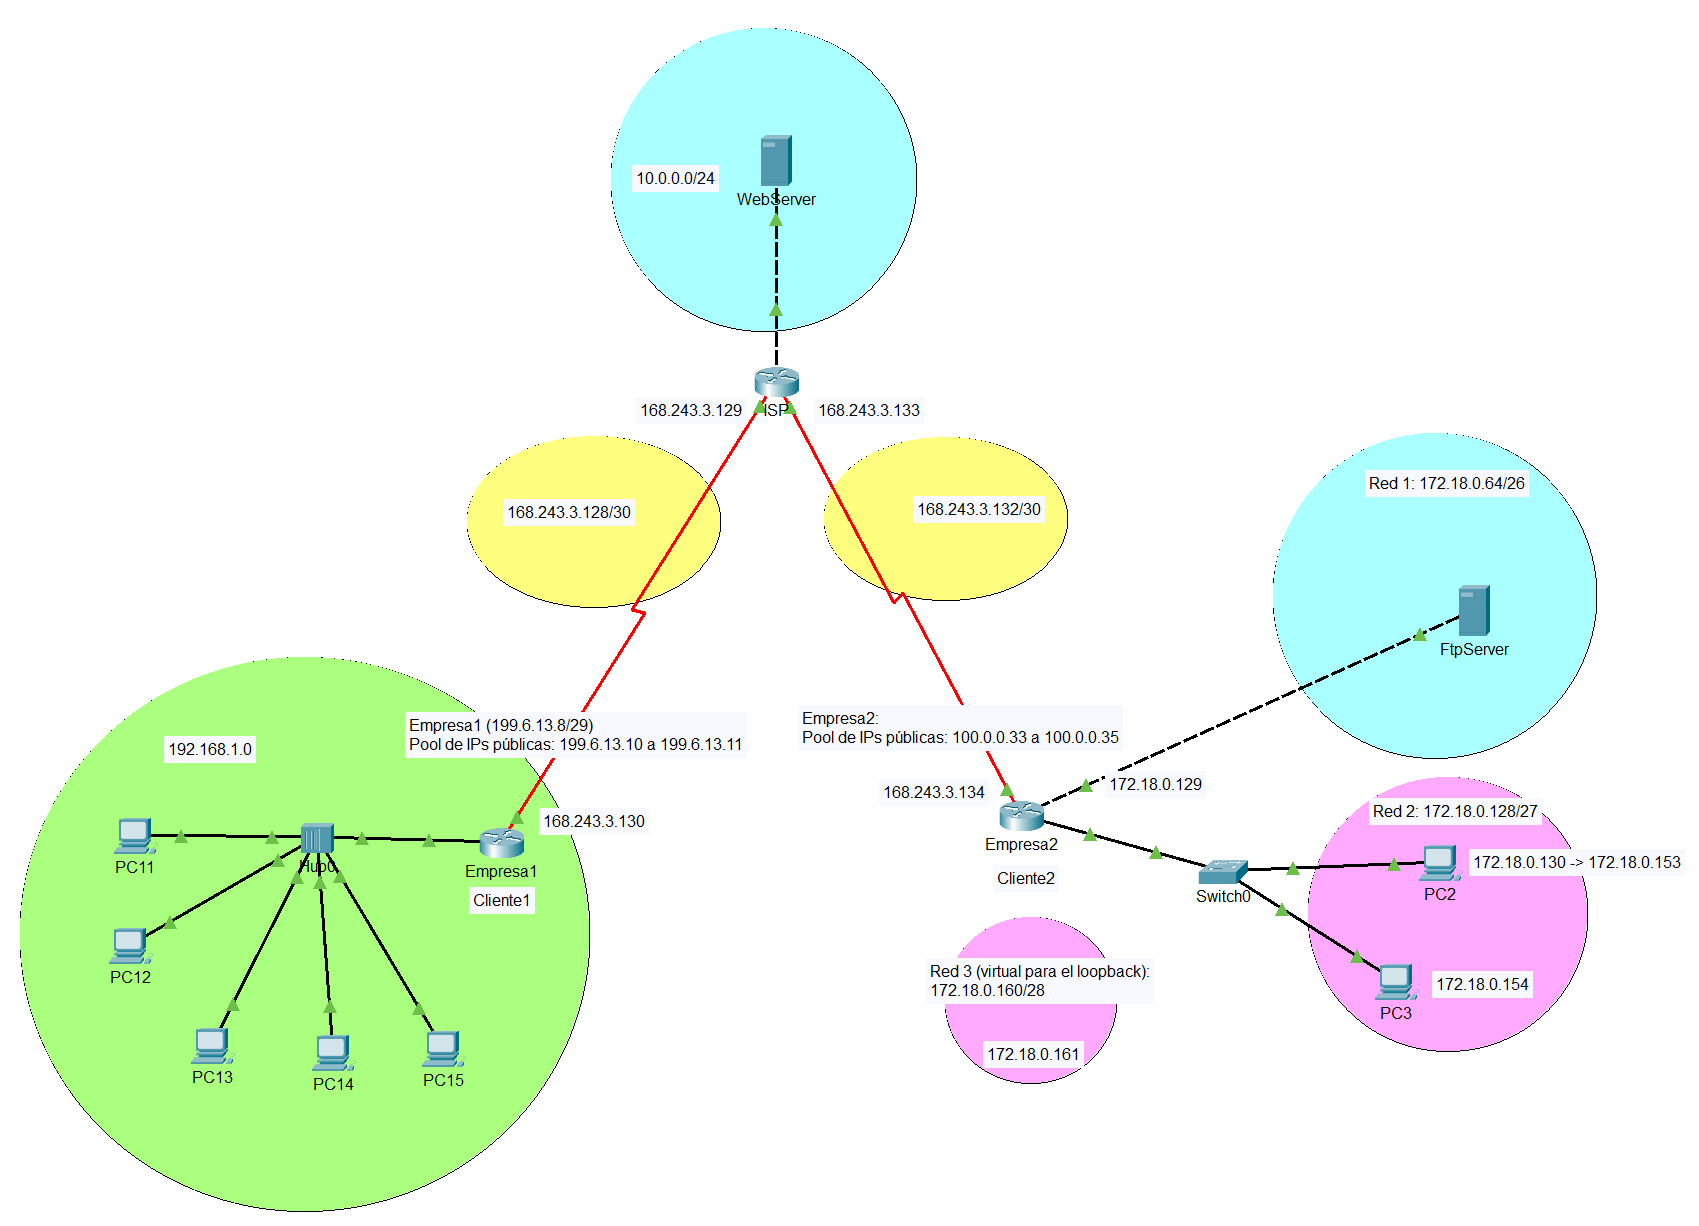
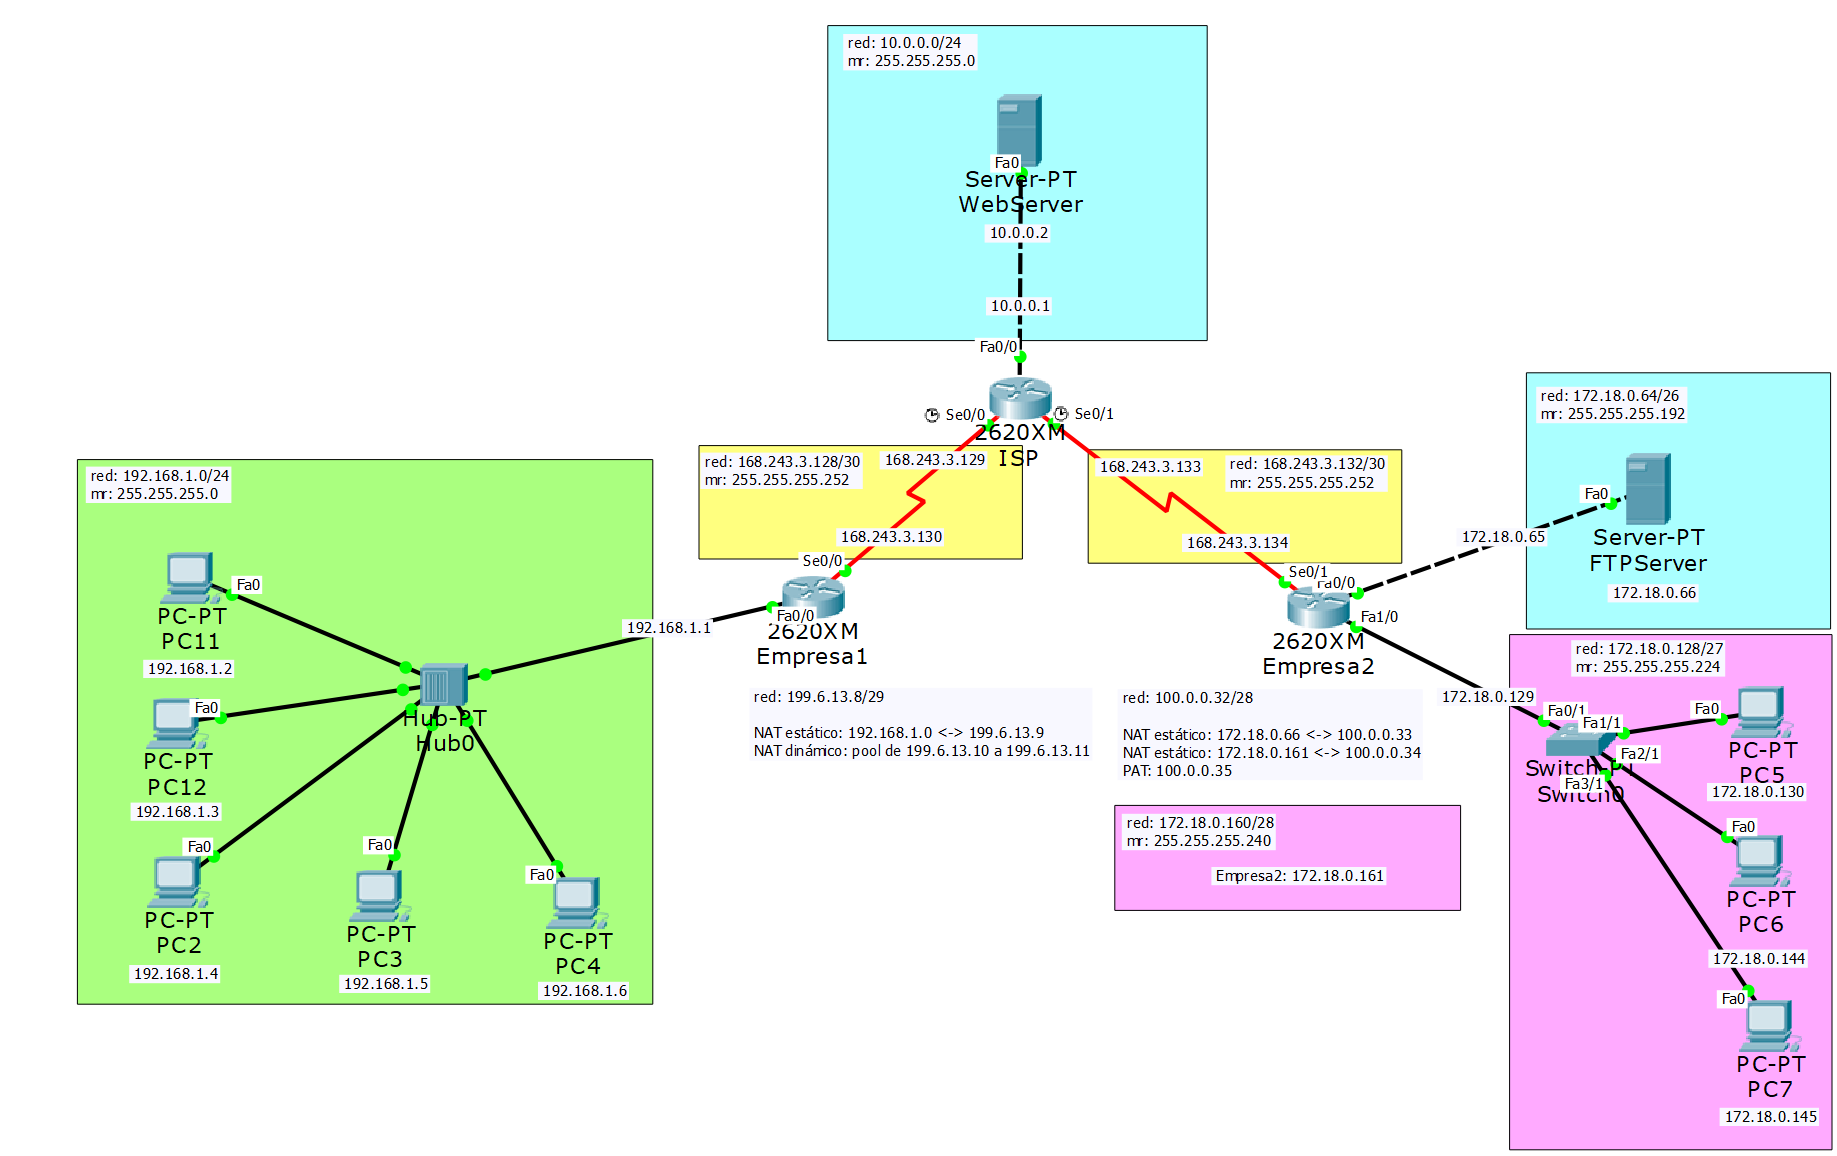
wip

diff --git a/_posts/2022-03-07-tutorial-nat-pat-packet-tracer.md b/_posts/2022-03-07-tutorial-nat-pat-packet-tracer.md
@@ -21,9 +21,6 @@ Implementar ahí la siguiente topología:
 ![img-description](/assets/img/tutorial-nat-pat-packet-tracer/tresRoutersEstáticoDinamicoSobrecargado.png)
 _Topología base_
 
-> En esta configuración ambas interfaces seriales del router ISP usarán cables DCE.
-{:.prompt-tip}
-
 > En esta práctica se usan subredes VLSM explicadas en el artículo [VLSM](/posts/vlsm/). Este tipo de subredes pueden tener máscaras de red diferentes unas de otras.
 {:.prompt-tip}
 
@@ -35,7 +32,7 @@ _Topología base_
 
 Proceda a realizar la configuración de cada router indicada a continuación.
 
-Configuración para Empresa1 :
+Configuración para Empresa1:
 
 ```console
 Router#configure terminal
@@ -110,7 +107,7 @@ Comprobación de direccionamiento IP
 {:.step}
 ### Paso
 
-Realizar las siguientes pruebas con el comando `ping` (usando el Command Prompt del Desktop de cada PC) desde las estaciones de trabajo y el web server. 
+Realizar las siguientes pruebas con el comando `ping` (usando el Command Prompt del Desktop de cada PC) desde las estaciones de trabajo y el web server.
 
 Se anotan a continuación de cada prueba el resultado que debería obtenerse, compárelo con sus propios resultados:
 
@@ -133,7 +130,7 @@ Nuevamente se hace la aclaración. Los fallos al realizar las pruebas `ping` ent
 {:.step}
 ### Paso
 
-Asignación de una red IP pública para realizar el proceso de traducción. Las direcciones de carácter público (globales) para su cliente 1 (Empresa1) que configurara el proveedor en su equipo ISP serán las IP host contenidas en la red: 199.6.13.8/29. 
+Asignación de una red IP pública para realizar el proceso de traducción. Las direcciones de carácter público (globales) para su cliente 1 (Empresa1) que configurara el proveedor en su equipo ISP serán las IP host contenidas en la red: 199.6.13.8/29.
 
 Estas IP globales serán configuradas en los siguientes pasos.
 
@@ -149,7 +146,7 @@ ISP(config)# ip route 199.6.13.8 255.255.255.248 168.243.3.130
 {:.step}
 ### Paso
 
-Configure una ruta estática por defecto en el enrutador Empresa1: 
+Configure una ruta estática por defecto en el enrutador Empresa1:
 
 ```console
 Empresa1(config)#ip route 0.0.0.0 0.0.0.0 serial 0/0
@@ -234,7 +231,7 @@ Pro  Inside global     Inside local       Outside local      Outside global
 ---  199.6.13.9        192.168.1.2        ---                ---
 ```
 
-El comando `clear ip nat translation *` elimina el contenido actual de la tabla de traducción NAT. Al ejecutar el comando `show` de la última línea podrá verificar que la traducción anterior aun existe, porque esta traducción ha sido definida de manera estática. 
+El comando `clear ip nat translation *` elimina el contenido actual de la tabla de traducción NAT. Al ejecutar el comando `show` de la última línea podrá verificar que la traducción anterior aun existe, porque esta traducción ha sido definida de manera estática.
 
 {:.step}
 ### Paso
@@ -383,7 +380,7 @@ Empresa2(config-if)#exit
 Empresa2(config)#interface Lo 3
 Empresa2(config-if)#ip nat inside
 Empresa2(config-if)#exit
-Empresa2(config)#inter serial 0/1
+Empresa2(config)#interface serial 0/1
 Empresa2(config-if)#ip nat outside
 Empresa2(config-if)#do write
 Empresa2(config-if)#exit
@@ -396,6 +393,10 @@ Observe como la Lo 3 se convierte en una interface de entrada de NAT.
 
 Configure una ruta por defecto en Empresa2, que utilice la interface de salida Serial 0/1 con la que se conecta al ISP. Es decir, debes configurar la tabla de enrutamiento del enrutador Empresa2 como ya se hizo con el enrutador de Empresa1.
 
+```console
+Empresa2(config)#ip route 0.0.0.0 0.0.0.0 serial 0/1
+```
+
 {:.step}
 ### Paso
 
@@ -403,10 +404,9 @@ En ISP, configure la manera de cómo este dispositivo deberá alcanzar la red pr
 
 ```console
 ISP(config)#ip route 100.0.0.32 255.255.255.252 168.243.3.134
-ISP(config)#ip route 100.0.0.35 255.255.255.255 168.243.3.134
 ```
 
-La dirección IP 100.0.0.35 pertenece a la red 100.0.0.32/30 pero se trata de un mensaje broadcast por lo que el enrutador no lo propagaría. Debido a esto, es necesaria la segunda línea. De todos modos, no estoy 100% seguro de esto.
+El rango de direcciones 100.0.0.32/30 (máscara de 255.255.255.252) abarca desde la dirección IP 100.0.0.32 a la dirección 100.0.0.35. Esta es una manera de indicar rangos de direcciones IP
 
 {:.step}
 ### Paso
@@ -418,14 +418,14 @@ De igual forma, desde host PC11, ejecute el comando `ping` dirigido a la ip púb
 {:.step}
 ### Paso
 
-Hasta este momento, ya solo queda disponible una ip publica (100.0.0.35) adquirida al proveedor ISP, y con ella debe darse acceso a Internet a solamente a la mitad superior de las direcciones IP de la Red2 (172.18.0.128/27). 
+Hasta este momento, ya solo queda disponible una ip publica (100.0.0.35) adquirida al proveedor ISP, y con ella debe darse acceso a Internet a solamente a la mitad superior de las direcciones IP de la Red2 (172.18.0.128/27).
 
 Este rango de ip que tendrán Internet incluye desde la ip 172.18.0.144 hasta la 172.18.0.158. Veamos cómo es posible solventar este problema usando PAT.
 
 {:.step}
 ### Paso
 
-Ejecute la siguiente configuración de PAT (NAT Overloaded) en Empresa2. Analice los comentarios previos en cada bloque. 
+Ejecute la siguiente configuración de PAT (NAT Overloaded) en Empresa2. Analice los comentarios previos en cada bloque.
 
 Configura una pila, formada por una "única dirección" 100.0.0.35 como inicio y final del rango de ip publicas aun disponibles para NAT.
 
@@ -433,13 +433,25 @@ Configura una pila, formada por una "única dirección" 100.0.0.35 como inicio y
 Empresa2(config)#ip nat pool cliente2 100.0.0.35 100.0.0.35 netmask 255.255.255.240
 ```
 
-Crea la ACL 2 para determinar las redes que tendrán acceso al proceso NAT y alcanzar así Internet.
-En este caso, solo se aceptarán IPs de la mitad superior del rango de IPs de la Red 2.
+Crea la ACL 2 para determinar las redes que tendrán acceso al proceso NAT y alcanzar así Internet. En este caso, solo se aceptarán IPs de la mitad superior del rango de IPs de la Red 2.
 
 ```console
 Empresa2(config)#access-list 2 permit 172.18.0.144 0.0.0.15
 Empresa2(config)#access-list 2 deny any
 ```
+
+<details class="card mb-2">
+  <summary class="card-header question">¿Cómo se entiende esto?
+</summary>
+  <div class="card-body" markdown="1">
+
+La máscara inversa de 255.255.255.240 (/28) es 0.0.0.15. Te recuerdo que estábamos usando la subred 172.18.0.128/27 (255.255.255.224).
+
+Por asi decirlo, estamos "creando" dos subredes sobre la subred original y diciéndole al router que la segunda subred (subred 172.18.0.144/28) la permita y el resto (subred 172.18.0.128/28) no.
+
+<!-- Comentario para que no se descuajeringue la cosa -->
+  </div>
+</details>
 
 Crea a NAT de manera sobrecargada (overload), utilizando la pila de direcciones públicas cliente2 y como filtro a la ACL 2.
 
@@ -450,7 +462,7 @@ Empresa2(config)#ip nat inside source list 2 pool cliente2 overload
 {:.step}
 ### Paso
 
-Desde el PC de la Red 2 ejecute un `ping` hacia la ip 10.0.0.2; resultado: falla, porque su ip actual (172.18.0.130/27) no tiene acceso a Internet. 
+Desde el PC de la Red 2 ejecute un `ping` hacia la ip 10.0.0.2; resultado: falla, porque su ip actual (172.18.0.130/27) no tiene acceso a Internet.
 
 Cambiar su ip asignada a 172.18.0.153/27 y repetir la prueba de comunicación. Esta vez si se le permitirá acceder a Internet.
 
